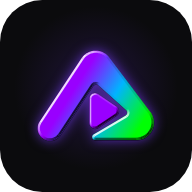
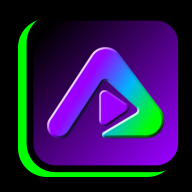
Icono nuevo de pestaña y de app en el estilo de placa de la familia

diff --git a/sw.js b/sw.js
@@ -4,7 +4,7 @@
    · Lo que no es de este sitio (avisos, crédito, directo) y los vídeos y audios a trozos van siempre por la red.
    Para forzar una copia nueva en todos los dispositivos, sube el número de CACHE.
    Licencia GPL-3.0 · mediaservi.com */
-const PREFIJO = 'avhub-', CACHE = PREFIJO + 'v10';
+const PREFIJO = 'avhub-', CACHE = PREFIJO + 'v11';
 const BASICO = ['./', 'index.html', 'credito.js', 'manifest.json', 'assets/iconos/avhub-192.png', 'assets/fonts/doto-latin-600-normal.woff2', 'assets/fonts/doto-latin-800-normal.woff2', 'assets/fonts/doto-latin-900-normal.woff2', 'assets/fonts/inter-latin-400-normal.woff2', 'assets/fonts/inter-latin-600-normal.woff2', 'assets/fonts/inter-latin-800-normal.woff2', 'assets/fonts/inter-latin-900-normal.woff2', 'assets/fonts/share-tech-mono-latin-400-normal.woff2', 'assets/fonts/vt323-latin-400-normal.woff2', 'assets/logos/adposter-logo.svg', 'assets/logos/avhub-apple-touch.png', 'assets/logos/avhub-isotipo.svg', 'assets/logos/avhub-logo.svg', 'assets/logos/avhub-og.jpg', 'assets/logos/avhub-play.svg', 'assets/logos/msgame-logo.svg?v=5', 'assets/logos/screens-logo.svg', 'assets/logos/systems-logo.svg', 'assets/logos/vjshow-logo.svg', 'assets/rack/screencalc-chart.webp'];   // lo mínimo para arrancar sin conexión desde la primera visita
 const FRESCO = /(\/|\.html?|\.json|\.js|\.css|\.webmanifest)$/i, TOPE = 6000;
 const clave = u => { const x = new URL(u, self.registration.scope); x.search = ''; x.hash = ''; return x.href; };

diff --git a/index.html b/index.html
@@ -12,8 +12,8 @@
 <meta property="og:description" content="Herramientas AV de usuario a usuario. Lanzamiento el 7 de mayo de 2027.">
 <meta property="og:image" content="https://avhub.mediaservi.com/assets/logos/avhub-og.jpg">
 <meta name="twitter:card" content="summary_large_image">
-<link rel="icon" type="image/svg+xml" href="assets/logos/avhub-isotipo.svg">
-<link rel="apple-touch-icon" href="assets/logos/avhub-apple-touch.png">
+<link rel="icon" type="image/svg+xml" href="assets/logos/avhub-icono.svg?v=1">
+<link rel="apple-touch-icon" href="assets/logos/avhub-icono-180.png?v=1">
 <link rel="manifest" href="manifest.json">
 <!-- tipos de letra alojados aquí mismo (assets/fonts, licencia OFL): la portada no pide nada a servidores de terceros -->
 <style>

diff --git a/qr/index.html b/qr/index.html
@@ -5,7 +5,7 @@
 <meta name="viewport" content="width=device-width, initial-scale=1">
 <meta name="robots" content="noindex">
 <title>AVHUB</title>
-<link rel="icon" type="image/svg+xml" href="../assets/logos/avhub-isotipo.svg">
+<link rel="icon" type="image/svg+xml" href="../assets/logos/avhub-icono.svg?v=1">
 <style>
   html,body{height:100%;margin:0;background:#07060b;color:#cfcce0;font:600 13px/1.4 system-ui,sans-serif;letter-spacing:.18em}
   body{display:grid;place-items:center;text-align:center}

diff --git a/README.md b/README.md
@@ -1,6 +1,10 @@
 # AVHUB
 AVHUB is your assessor for AV projects in an easy, helpful, and handy APP.
 
+## Icono
+
+Icono de pestaña y de app (noviembre 2026) en el estilo de placa de la familia: placa con degradado negro a morado, filete negro y sombra verde, con la A del play. Ficheros: `assets/logos/avhub-icono.svg`, `assets/logos/avhub-icono-180.png` y `assets/iconos/avhub-192/512/maskable-512.png`.
+
 ## Logos de la familia
 
 ![Hoja de logos de AVHUB](assets/logos/hoja-logos.png)
